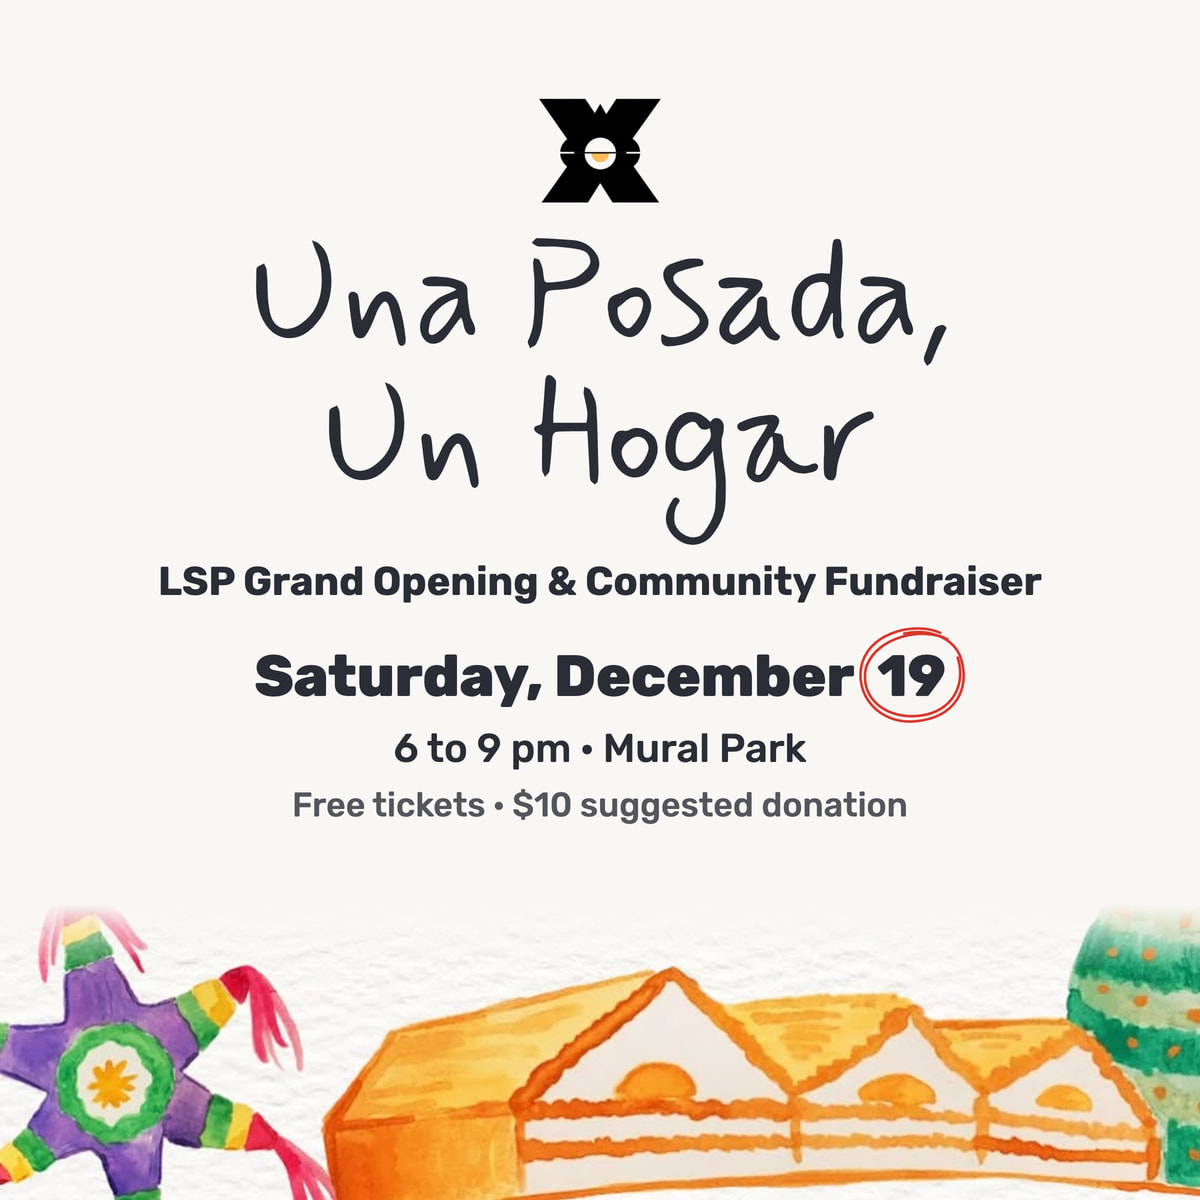
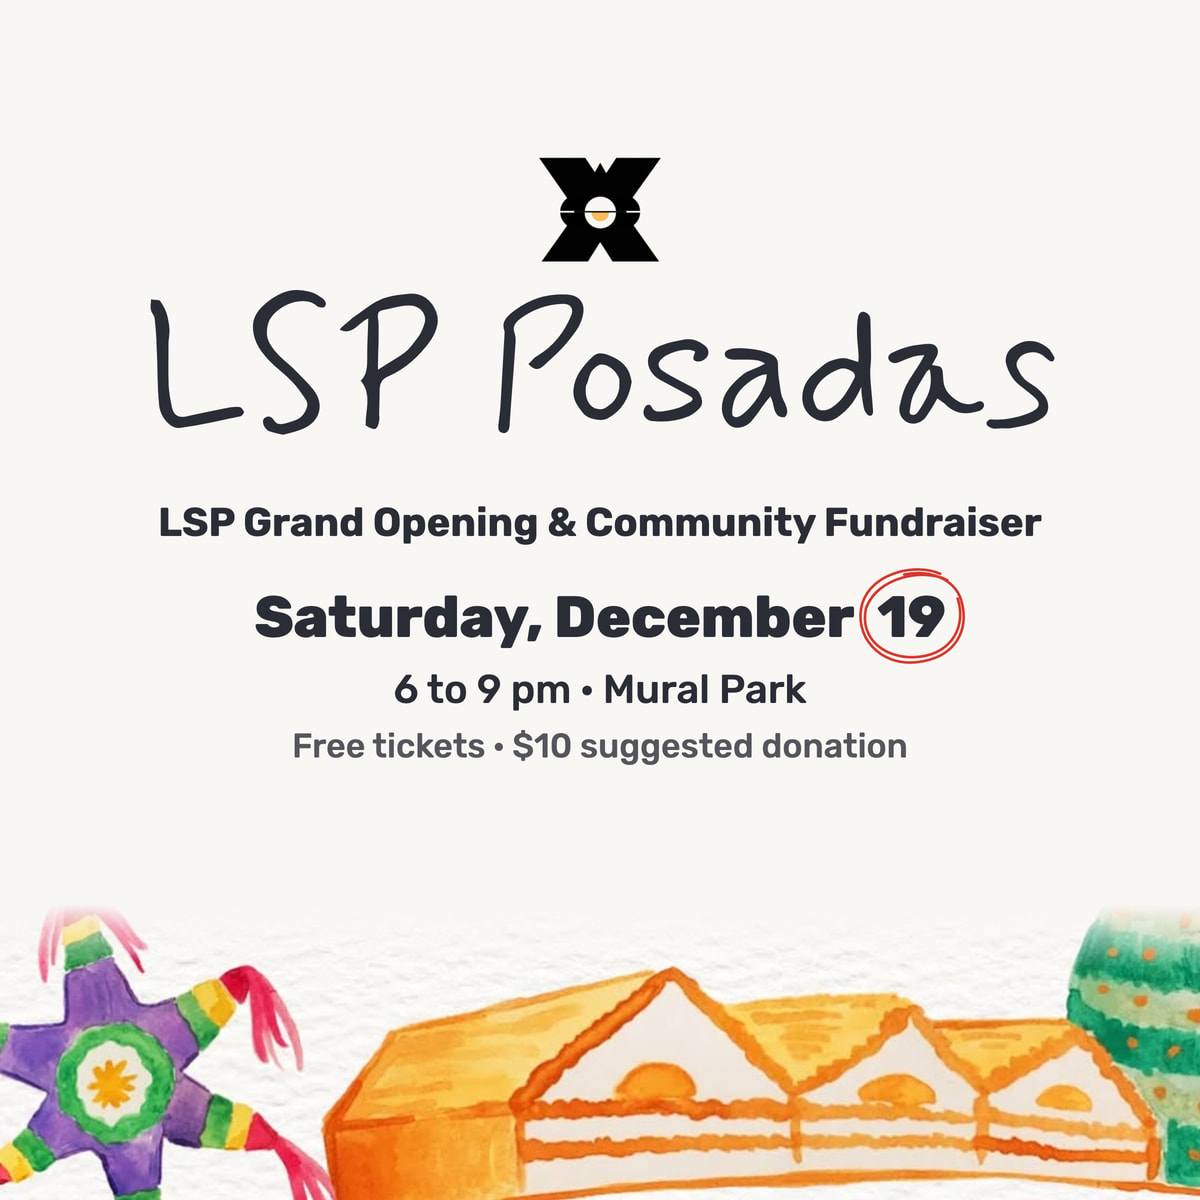
Posadas: the Dec 19 event is LSP Posadas again on every surface

Changed region(s): [[0.1233, 0.0617, 0.8633, 0.7092], [0.8017, 0.2775, 0.8942, 0.37]]

diff --git a/src/data/posadaCraftDays.js b/src/data/posadaCraftDays.js
@@ -10,7 +10,8 @@
 //      location tag Mural Park.
 //   2. Fez's brief for the volunteer form (Nov 19 2026): the five craft days,
 //      the four one-hour shifts, and the Bulls ticket raffle on the first two.
-//   3. Fez's event copy (Nov 23 2026): the event is "Una Posada, Un Hogar",
+//   3. Fez's event copy (Nov 23 2026; on Nov 25 Fez set the name back to
+//      "LSP Posadas"): the event is "LSP Posadas",
 //      the LSP Grand Opening & Community Fundraiser, Saturday December 19,
 //      6 to 9 pm, Mural Park; music, food, Loteria, festive activities,
 //      raffles; raising $10,000 toward a permanent home for LSP in 2027; free
@@ -20,9 +21,9 @@
 // All dates are 2026 and Central Standard Time (UTC-6).
 
 export const posadaEvent = {
-  // Named by Fez on Nov 23 2026 (the save-the-date called it "LSP Posadas,
-  // Community Grand Opening").
-  name: "Una Posada, Un Hogar",
+  // Fez, Nov 25 2026: "rename to LSP Posadas across all of the surfaces"
+  // (Nov 23 to 25 it was "Una Posada, Un Hogar").
+  name: "LSP Posadas",
   kicker: "LSP Grand Opening & Community Fundraiser",
   dateISO: "2026-12-19",
   dateLabel: "Saturday, December 19",
@@ -168,7 +169,7 @@ export const craftContactEmail = "collab@latinasweatproject.com";
 //       (the raffle note shows until craftRaffle.endsAt)
 //   from then to the end of Sat 12/19 (Chicago)         "save-the-date": the
 //       event and its ticket button only
-// Both phases lead with the event (Una Posada, Un Hogar) and its free-ticket
+// Both phases lead with the event (LSP Posadas) and its free-ticket
 // button (posadaEvent.ticketUrl); the craft days sit under it while open.
 //   after that                                          nothing
 // HOW TO TURN THEM OFF BY HAND: set showPosadaHomeBand (homepage) and/or

diff --git a/design.md b/design.md
@@ -1182,16 +1182,16 @@ LSP Giving Tuesday 2026: Tuesday, Dec 1, goal $15,000, gifts count from Thu Nov 
 
 ## Posada Craft Days and LSP Posadas (`/posada`, Nov 24 to Dec 19, 2026)
 
-**Nov 23, 2026: the event has a name and tickets.** Fez named it **Una Posada, Un Hogar**, the **LSP Grand Opening & Community Fundraiser**: Saturday, December 19, 2026, 6 to 9 pm at Mural Park; music, food, Lotería, festive activities, raffles; raising $10,000 toward a permanent home for LSP in 2027. Free tickets on Zeffy, pay what you can with $10 suggested: `posadaEvent.ticketUrl` (https://www.zeffy.com/en-US/ticketing/una-posada-un-hogar; Zeffy setup and banner in `marketing/una-posada/`). The save-the-date called it "LSP Posadas, Community Grand Opening"; the art still says that and is still the identity. Every surface now leads with the event and a "Get your free ticket" button (`posada_ticket_click`). To get ready, volunteers sign up for **Posada Craft Days**: Tue 11/24, Wed 11/25, Thu 12/3, Thu 12/10, Thu 12/17, one-hour shifts 4:30 to 8:30 pm at Mural Park, 924 W 19th Place, 4th floor. On 11/24 and 11/25 Bulls tickets for Saturday, November 28 are raffled at the end of every hour. We do not know what is being crafted: never name piñatas, ornaments, decorations or any item. No invented perks. Binding facts and copy rules: `marketing/posada-craft-days/BRIEF.md`.
+**Nov 23, 2026: the event has a name and tickets.** The event is **LSP Posadas** (Fez named it "Una Posada, Un Hogar" on Nov 23 and set it back to "LSP Posadas" on every surface on Nov 25; the Zeffy link keeps the `una-posada-un-hogar` slug because Zeffy never changes a slug after publishing), the **LSP Grand Opening & Community Fundraiser**: Saturday, December 19, 2026, 6 to 9 pm at Mural Park; music, food, Lotería, festive activities, raffles; raising $10,000 toward a permanent home for LSP in 2027. Free tickets on Zeffy, pay what you can with $10 suggested: `posadaEvent.ticketUrl` (https://www.zeffy.com/en-US/ticketing/una-posada-un-hogar; Zeffy setup and banner in `marketing/una-posada/`). The save-the-date art says "LSP Posadas, Community Grand Opening" and is still the identity. The title on the homepage band, the /links card and the /posada #tickets section is Mynerve "LSP Posadas" on one line. Every surface now leads with the event and a "Get your free ticket" button (`posada_ticket_click`). To get ready, volunteers sign up for **Posada Craft Days**: Tue 11/24, Wed 11/25, Thu 12/3, Thu 12/10, Thu 12/17, one-hour shifts 4:30 to 8:30 pm at Mural Park, 924 W 19th Place, 4th floor. On 11/24 and 11/25 Bulls tickets for Saturday, November 28 are raffled at the end of every hour. We do not know what is being crafted: never name piñatas, ornaments, decorations or any item. No invented perks. Binding facts and copy rules: `marketing/posada-craft-days/BRIEF.md`.
 
 - **Route** `/posada` (`src/pages/posada.astro`), public and indexable, not in the nav or footer. Aliases: `/posadas` and `/craftdays` in `astro.config.mjs` `redirects`; `404.astro` sends any case of `/posada`, `/posadas`, `/lspposada`, `/lspposadas`, `/craftdays`, `/craft-days`, `/posadacraftdays`, `/posada-craft-days` (trailing slash ok, hash kept) to `/posada`. Share card `public/images/posada/posada-og.jpg` from `scripts/render-posada-og.mjs`.
 - **Single source of truth:** `src/data/posadaCraftDays.js` (`posadaEvent`, `craftDaysPlace`, `craftSlots`, `craftHours`, `craftDays` with each day's `end`, `craftRaffle` with `endsAt`, `craftForm`, `craftContactEmail`; never rename these exports or keys). Import dates from it; never restate them by hand.
 - **Form contract:** the page posts to a hidden Google Form (Collab@ account) like `/movecrew`: no-cors `URLSearchParams`, one repeated `entry.N` per picked hour, the slot VALUES are the form's option labels (`craftSlots[].value`), honeypot + 3 s minimum, name and email remembered on the device. Entry ids and the action URL live only in `craftForm`; deleting or recreating a form question changes them and silently breaks the page. Form, sheet and ids: `marketing/posada-craft-days/README.md`.
 - **Confirmation email:** Apps Script `PosadaConfirm.gs` in the Collab@ "Move Crew Volunteer Draft" project, trigger `onPosadaCraftSubmit` (ON_FORM_SUBMIT), one email per volunteer per day from membership@ with the `.ics` attached and calendar buttons; hosted calendar files in `public/posada/cal/` (`lsp-posadas-2026-12-19.ics` is December 19, 6 to 9 pm, with the ticket link since Nov 23; the file name is kept because sent emails link to it). Teardown after Dec 17: `uninstallPosadaCraftTrigger`. Details: the README.
 - **Look** (the team's save-the-date `public/images/posada/lsp-posadas-save-the-date.jpg` IS the identity): warm white paper #fbf8f2, charcoal ink #2b2d36, one pen red #d8382e (the circle around the 19, "Posadas"), sticky-note yellow #f5e58a; Mynerve (loaded per page with a Google Fonts link) for a few display words only, Rubik for everything read, dates as Rubik 800 numerals; Permanent Marker (site-wide) for the raffle note title. Motifs: the hand-ruled calendar grid and the red pen circle. The save-the-date is used whole (or as a plain rectangular crop), laid on the paper at a slight angle. Never redraw or generate any illustration.
-- **Page:** hero (Mynerve "Posada / Craft Days", one line, the five days, "Pick your hours" -> `#signup`, the pinned save-the-date), the sign-up (the shift picker IS a hand-ruled calendar, a red pen circle draws around each picked hour; the raffle sticky note beside the heading), then `#tickets` (the circled 19, "Una Posada, Un Hogar", the event line, the $10,000 line, "Get your free ticket", calendar links, contact). The hero carries a "Tickets for December 19" link to `#tickets`; the success state offers the ticket link too.
+- **Page:** hero (Mynerve "Posada / Craft Days", one line, the five days, "Pick your hours" -> `#signup`, the pinned save-the-date), the sign-up (the shift picker IS a hand-ruled calendar, a red pen circle draws around each picked hour; the raffle sticky note beside the heading), then `#tickets` (the circled 19, "LSP Posadas", the event line, the $10,000 line, "Get your free ticket", calendar links, contact). The hero carries a "Tickets for December 19" link to `#tickets`; the success state offers the ticket link too.
 - **Auto-hide on the page:** a day disappears once its last shift ends (Chicago), the raffle note and the "raffle" marks go after `craftRaffle.endsAt`, and when every day is over the form gives way to "Posada Craft Days are done..." with the save-the-date kept. Build time and in the browser.
-- **Homepage and `/links` placements (Nov 19, 2026).** `PosadaHomeBand.astro` (homepage, light slot right after the Giving Tuesday band; copy LEFT, the save-the-date pinned RIGHT at 1024 px+, last on phones) and `PosadaLinksCard.astro` (`/links`, second card, the save-the-date small and pinned beside the title). Since Nov 23 both LEAD with the event: Mynerve "Una Posada, / Un Hogar", the event line, the $10,000 line in muted ink, then the solid ink "Get your free ticket" button (Zeffy, new tab) and "Add December 19 to your calendar"; then the calendar row; then, while craft days are open, a Mynerve "Posada Craft Days" subhead with the craft copy and an OUTLINED "Pick your hours" button (one solid button per surface). Both carry `PosadaCalendarStrip.astro`: one hand-ruled row under handwritten month names, the five craft days and "Sat 19" in date order. Days that are over are dimmed and crossed off with one pen line; the NEXT craft day gets a square of sticky-note yellow; the 19 is circled in red pen (two loops, drawn once when it is 60% in view; without JS or with reduced motion it simply shows) with "Posadas" written under it in red. Under the row: "Next craft day: Tuesday 11/24, 4:30 to 8:30 pm" ("Craft day today:" on the day), computed in the browser and rolling forward; the place line; the raffle sticky note until `craftRaffle.endsAt`; "Pick your hours" -> `/posada#signup` and "Add December 19 to your calendar" (the hosted `.ics`). `/links` Spanish lives in `posadaPlacementCopy` and `craftDaysEs` ("Elige tus horas", "Próximo día: martes 24 de noviembre, de 4:30 a 8:30 pm", "Agenda el 19 de diciembre").
+- **Homepage and `/links` placements (Nov 19, 2026).** `PosadaHomeBand.astro` (homepage, light slot right after the Giving Tuesday band; copy LEFT, the save-the-date pinned RIGHT at 1024 px+, last on phones) and `PosadaLinksCard.astro` (`/links`, second card, the save-the-date small and pinned beside the title). Since Nov 23 both LEAD with the event: Mynerve "LSP Posadas" (one line), the event line, the $10,000 line in muted ink, then the solid ink "Get your free ticket" button (Zeffy, new tab) and "Add December 19 to your calendar"; then the calendar row; then, while craft days are open, a Mynerve "Posada Craft Days" subhead with the craft copy and an OUTLINED "Pick your hours" button (one solid button per surface). Both carry `PosadaCalendarStrip.astro`: one hand-ruled row under handwritten month names, the five craft days and "Sat 19" in date order. Days that are over are dimmed and crossed off with one pen line; the NEXT craft day gets a square of sticky-note yellow; the 19 is circled in red pen (two loops, drawn once when it is 60% in view; without JS or with reduced motion it simply shows) with "Posadas" written under it in red. Under the row: "Next craft day: Tuesday 11/24, 4:30 to 8:30 pm" ("Craft day today:" on the day), computed in the browser and rolling forward; the place line; the raffle sticky note until `craftRaffle.endsAt`; "Pick your hours" -> `/posada#signup` and "Add December 19 to your calendar" (the hosted `.ics`). `/links` Spanish lives in `posadaPlacementCopy` and `craftDaysEs` ("Elige tus horas", "Próximo día: martes 24 de noviembre, de 4:30 a 8:30 pm", "Agenda el 19 de diciembre").
 - **Placement phases** (`posadaPlacementPhase(now)`, build time in each component and again in `src/lib/posadaPlacement.js`): `volunteer` until the last craft day ends (Thu 12/17, 8:30 pm); then `save-the-date` until `posadaPlacementsUntil` (end of Sat 12/19, Chicago): the event block and ticket button only, every craft day crossed off, the craft section hidden; then `off`: nothing renders, and `data-pc-until` removes the band, card and bubble from a stale build. **By hand:** `showPosadaHomeBand` / `showPosadaLinksCard` in `src/data/posadaCraftDays.js`. Dev only (`import.meta.env.DEV`, absent from `dist`): `?now=<ISO>`.
 - Tracking: `posada_ticket_click` (contexts `home_posada_band`, `links_posada_card`, `posada_page`), `posada_page_click` (contexts `home_posada_band`, `home_posada_band_art`, `links_posada_card`) and `posada_calendar_click` (`home_posada_band`, `home_posada_band_save_date`, `links_posada_card`, `links_posada_card_save_date`). The `/posada` page itself carries no tracking.
 
